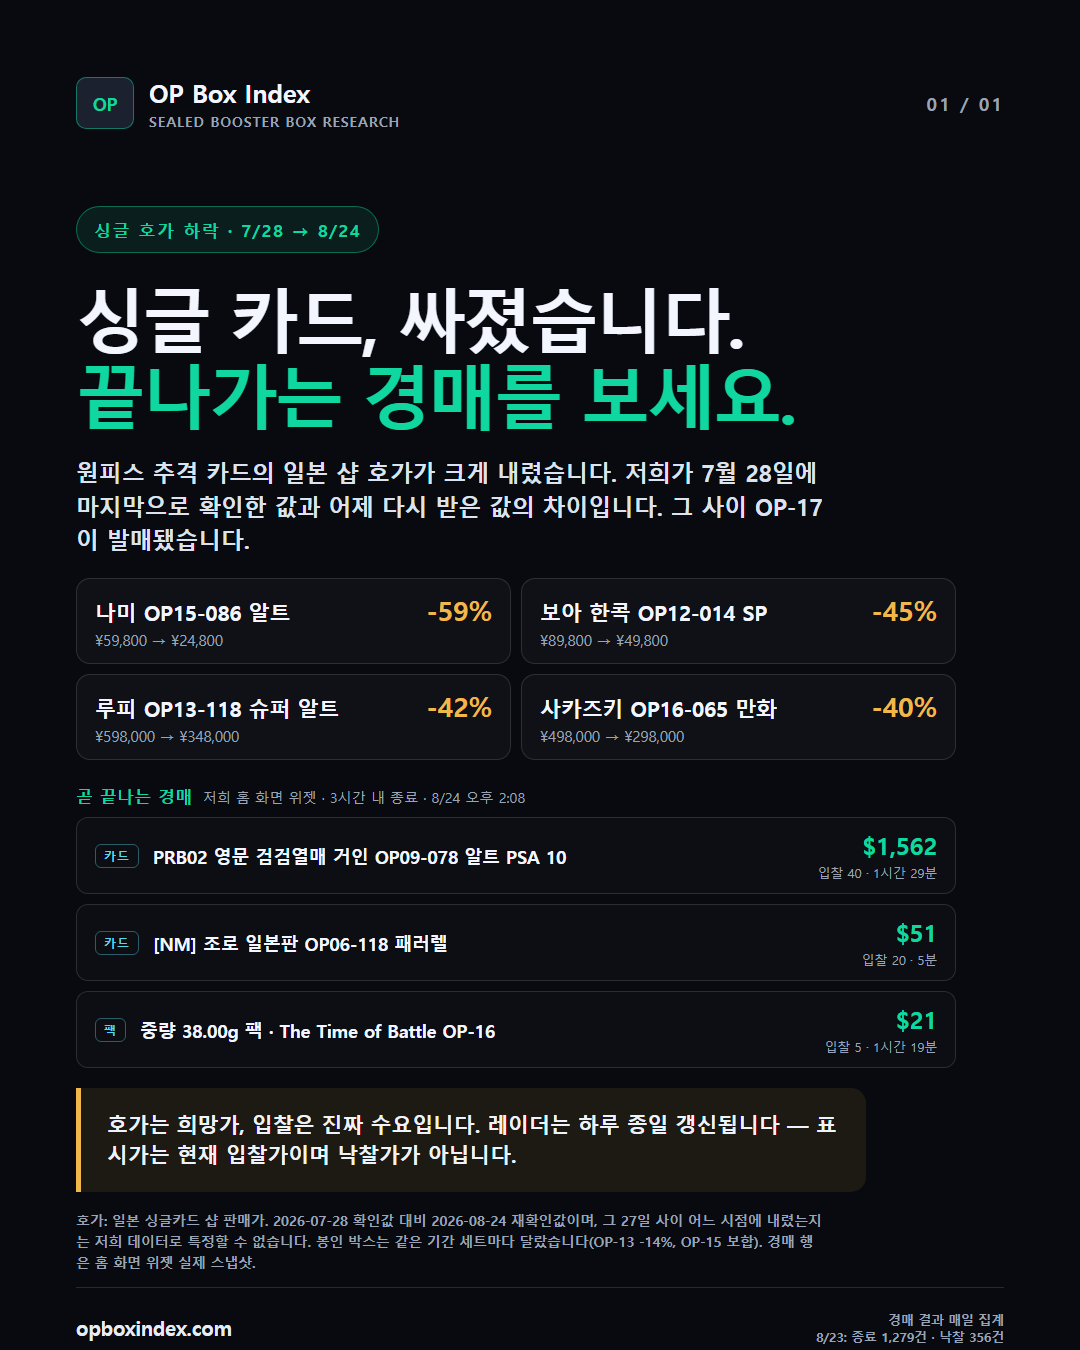
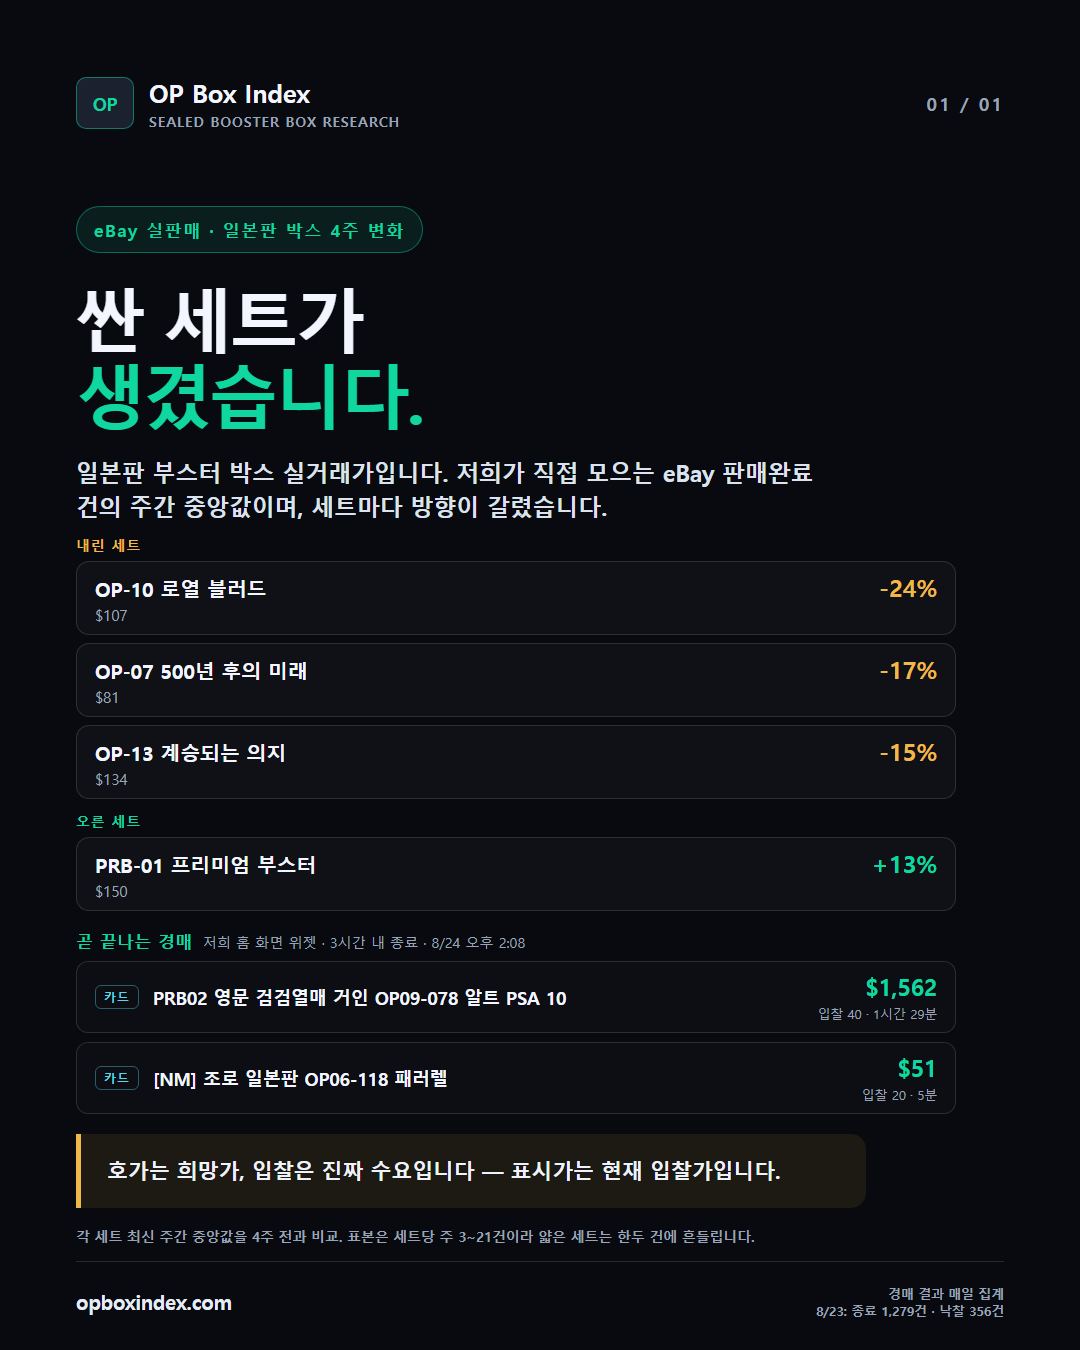
스레드 카드뉴스: 유유테이 호가 → 우리 eBay 실판매 4주 변화로 교체
요청은 '8/12~23 대비 8/24 하락'이었는데 그 비교는 불가능하다:
박스 원장에 8/24자 판매가 0건(오늘 오전 수집이라 당일 체결 미반영)이고,
경매 일별 중앙값은 잡카드 혼합이라 8/24 raw $12.5 가 기준 범위($6~30) 안이다.

그래서 사이트가 실제 게시하는 4주 변화(주간 중앙값)를 쓴다.
내림 OP-10 -24% · OP-07 -17% · OP-13 -15% / 오름 PRB-01 +13% · OP-14 +12%.
'박스가 다 떨어졌다'로 읽히지 않게 양방향을 같이 싣는다.

폐기한 초안 2개(하루 만에 -59% / 8-24 대비)의 사유를 post-copy 에 박제.

diff --git a/assets/social/threads-2026-08-24-ending-soon/slide-01-ko.html b/assets/social/threads-2026-08-24-ending-soon/slide-01-ko.html
@@ -3,24 +3,28 @@
   <head>
     <meta charset="utf-8" />
     <meta name="viewport" content="width=1080, initial-scale=1" />
-    <title>임박 경매 레이더 1</title>
+    <title>박스 4주 변화</title>
     <link rel="stylesheet" href="threads-card.css" />
     <style>
-      /* 이 슬라이드 전용 — 급락 칩 + 경매 행 목업 (한글판) */
       body { font-family: "Pretendard", "Malgun Gothic", "Segoe UI", Arial, sans-serif; letter-spacing: -0.01em; }
-      .dropGrid { display: grid; grid-template-columns: 1fr 1fr; gap: 10px; margin-top: 22px; max-width: 880px; }
-      .dropChip { border: 1px solid var(--line); border-radius: 14px; padding: 13px 18px; background: rgba(255,255,255,.03); display: flex; align-items: baseline; justify-content: space-between; gap: 10px; }
-      .dropChip b { font-size: 21px; color: var(--ink); font-weight: 700; }
-      .dropChip small { display: block; color: var(--muted); font-size: 15px; margin-top: 4px; font-weight: 500; }
-      .dropPct { font-size: 27px; font-weight: 800; color: var(--gold); white-space: nowrap; }
-      .aucPanel { margin-top: 24px; max-width: 880px; display: grid; gap: 10px; }
+      .grpLab { font-size: 14px; font-weight: 800; letter-spacing: .06em; margin: 13px 0 7px; }
+      .grpLab.dn { color: var(--gold); }
+      .grpLab.up { color: var(--accent); }
+      .dropGrid { display: grid; gap: 8px; max-width: 880px; }
+      .dropChip { border: 1px solid var(--line); border-radius: 13px; padding: 9px 18px; background: rgba(255,255,255,.03); display: flex; align-items: baseline; justify-content: space-between; gap: 10px; }
+      .dropChip b { font-size: 20px; color: var(--ink); font-weight: 700; }
+      .dropChip small { display: block; color: var(--muted); font-size: 15px; margin-top: 3px; font-weight: 500; }
+      .dropPct { font-size: 24px; font-weight: 800; white-space: nowrap; }
+      .dropChip.dn .dropPct { color: var(--gold); }
+      .dropChip.up .dropPct { color: var(--accent); }
+      .aucPanel { margin-top: 18px; max-width: 880px; display: grid; gap: 9px; }
       .aucHead { font-size: 17px; letter-spacing: .02em; color: var(--accent); font-weight: 800; }
       .aucHead small { color: var(--muted); letter-spacing: 0; font-weight: 500; margin-left: 10px; }
-      .aucRow { display: flex; align-items: center; gap: 14px; border: 1px solid var(--line); border-radius: 12px; padding: 11px 18px; background: rgba(255,255,255,.02); }
+      .aucRow { display: flex; align-items: center; gap: 14px; border: 1px solid var(--line); border-radius: 12px; padding: 9px 18px; background: rgba(255,255,255,.02); }
       .aucKind { font-size: 12px; font-weight: 800; letter-spacing: .08em; color: #55d8ea; border: 1px solid rgba(85,216,234,.4); border-radius: 6px; padding: 3px 8px; }
       .aucTitle { flex: 1; font-size: 18px; color: var(--ink); font-weight: 600; white-space: nowrap; overflow: hidden; text-overflow: ellipsis; }
       .aucBid { text-align: right; }
-      .aucBid b { display: block; font-size: 24px; font-weight: 800; color: var(--accent); }
+      .aucBid b { display: block; font-size: 23px; font-weight: 800; color: var(--accent); }
       .aucBid small { color: var(--muted); font-size: 13px; }
     </style>
   </head>
@@ -34,26 +38,29 @@
         <div class="pageNo">01 / 01</div>
       </div>
 
-      <div class="eyebrow">싱글 호가 하락 · 7/28 → 8/24</div>
-      <h1>싱글 카드, 싸졌습니다.<br /><span>끝나가는 경매를 보세요.</span></h1>
-      <p class="deck">원피스 추격 카드의 일본 샵 호가가 크게 내렸습니다. 저희가 7월 28일에 마지막으로 확인한 값과 어제 다시 받은 값의 차이입니다. 그 사이 OP-17이 발매됐습니다.</p>
+      <div class="eyebrow">eBay 실판매 · 일본판 박스 4주 변화</div>
+      <h1>싼 세트가<br /><span>생겼습니다.</span></h1>
+      <p class="deck">일본판 부스터 박스 실거래가입니다. 저희가 직접 모으는 eBay 판매완료 건의 주간 중앙값이며, 세트마다 방향이 갈렸습니다.</p>
 
-      <div class="dropGrid" aria-label="하루 호가 하락">
-        <div class="dropChip"><span><b>나미 OP15-086 알트</b><small>¥59,800 → ¥24,800</small></span><span class="dropPct">-59%</span></div>
-        <div class="dropChip"><span><b>보아 한콕 OP12-014 SP</b><small>¥89,800 → ¥49,800</small></span><span class="dropPct">-45%</span></div>
-        <div class="dropChip"><span><b>루피 OP13-118 슈퍼 알트</b><small>¥598,000 → ¥348,000</small></span><span class="dropPct">-42%</span></div>
-        <div class="dropChip"><span><b>사카즈키 OP16-065 만화</b><small>¥498,000 → ¥298,000</small></span><span class="dropPct">-40%</span></div>
+      <div class="grpLab dn">내린 세트</div>
+      <div class="dropGrid">
+        <div class="dropChip dn"><span><b>OP-10 로열 블러드</b><small>$107</small></span><span class="dropPct">-24%</span></div>
+        <div class="dropChip dn"><span><b>OP-07 500년 후의 미래</b><small>$81</small></span><span class="dropPct">-17%</span></div>
+        <div class="dropChip dn"><span><b>OP-13 계승되는 의지</b><small>$134</small></span><span class="dropPct">-15%</span></div>
+      </div>
+      <div class="grpLab up">오른 세트</div>
+      <div class="dropGrid">
+        <div class="dropChip up"><span><b>PRB-01 프리미엄 부스터</b><small>$150</small></span><span class="dropPct">+13%</span></div>
       </div>
 
-      <div class="aucPanel" aria-label="임박 경매 예시">
+      <div class="aucPanel">
         <div class="aucHead">곧 끝나는 경매<small>저희 홈 화면 위젯 · 3시간 내 종료 · 8/24 오후 2:08</small></div>
         <div class="aucRow"><span class="aucKind">카드</span><span class="aucTitle">PRB02 영문 검검열매 거인 OP09-078 알트 PSA 10</span><span class="aucBid"><b>$1,562</b><small>입찰 40 · 1시간 29분</small></span></div>
         <div class="aucRow"><span class="aucKind">카드</span><span class="aucTitle">[NM] 조로 일본판 OP06-118 패러렐</span><span class="aucBid"><b>$51</b><small>입찰 20 · 5분</small></span></div>
-        <div class="aucRow"><span class="aucKind">팩</span><span class="aucTitle">중량 38.00g 팩 · The Time of Battle OP-16</span><span class="aucBid"><b>$21</b><small>입찰 5 · 1시간 19분</small></span></div>
       </div>
 
-      <div class="insightBar">호가는 희망가, 입찰은 진짜 수요입니다. 레이더는 하루 종일 갱신됩니다 — 표시가는 현재 입찰가이며 낙찰가가 아닙니다.</div>
-      <p class="source">호가: 일본 싱글카드 샵 판매가. 2026-07-28 확인값 대비 2026-08-24 재확인값이며, 그 27일 사이 어느 시점에 내렸는지는 저희 데이터로 특정할 수 없습니다. 봉인 박스는 같은 기간 세트마다 달랐습니다(OP-13 -14%, OP-15 보합). 경매 행은 홈 화면 위젯 실제 스냅샷.</p>
+      <div class="insightBar">호가는 희망가, 입찰은 진짜 수요입니다 — 표시가는 현재 입찰가입니다.</div>
+      <p class="source">각 세트 최신 주간 중앙값을 4주 전과 비교. 표본은 세트당 주 3~21건이라 얇은 세트는 한두 건에 흔들립니다.</p>
 
       <div class="footerRow">
         <div class="url">opboxindex.com</div>

diff --git a/assets/social/threads-2026-08-24-ending-soon/slide-01-en.html b/assets/social/threads-2026-08-24-ending-soon/slide-01-en.html
@@ -3,23 +3,27 @@
   <head>
     <meta charset="utf-8" />
     <meta name="viewport" content="width=1080, initial-scale=1" />
-    <title>Auctions ending soon 1</title>
+    <title>Boxes over four weeks</title>
     <link rel="stylesheet" href="threads-card.css" />
     <style>
-      /* 이 슬라이드 전용 — 급락 칩 + 경매 행 목업 */
-      .dropGrid { display: grid; grid-template-columns: 1fr 1fr; gap: 10px; margin-top: 22px; max-width: 860px; }
-      .dropChip { border: 1px solid var(--line); border-radius: 14px; padding: 13px 18px; background: rgba(255,255,255,.03); display: flex; align-items: baseline; justify-content: space-between; gap: 10px; }
-      .dropChip b { font-size: 22px; color: var(--ink); font-weight: 700; letter-spacing: -0.01em; }
-      .dropChip small { display: block; color: var(--muted); font-size: 15px; margin-top: 4px; font-weight: 500; }
-      .dropPct { font-size: 27px; font-weight: 800; color: var(--gold); white-space: nowrap; }
-      .aucPanel { margin-top: 24px; max-width: 860px; display: grid; gap: 10px; }
-      .aucHead { font-size: 16px; letter-spacing: .14em; color: var(--accent); font-weight: 800; }
+      .grpLab { font-size: 14px; font-weight: 800; letter-spacing: .06em; margin: 13px 0 7px; }
+      .grpLab.dn { color: var(--gold); }
+      .grpLab.up { color: var(--accent); }
+      .dropGrid { display: grid; gap: 8px; max-width: 880px; }
+      .dropChip { border: 1px solid var(--line); border-radius: 13px; padding: 9px 18px; background: rgba(255,255,255,.03); display: flex; align-items: baseline; justify-content: space-between; gap: 10px; }
+      .dropChip b { font-size: 20px; color: var(--ink); font-weight: 700; }
+      .dropChip small { display: block; color: var(--muted); font-size: 15px; margin-top: 3px; font-weight: 500; }
+      .dropPct { font-size: 24px; font-weight: 800; white-space: nowrap; }
+      .dropChip.dn .dropPct { color: var(--gold); }
+      .dropChip.up .dropPct { color: var(--accent); }
+      .aucPanel { margin-top: 18px; max-width: 880px; display: grid; gap: 9px; }
+      .aucHead { font-size: 17px; letter-spacing: .02em; color: var(--accent); font-weight: 800; }
       .aucHead small { color: var(--muted); letter-spacing: 0; font-weight: 500; margin-left: 10px; }
-      .aucRow { display: flex; align-items: center; gap: 14px; border: 1px solid var(--line); border-radius: 12px; padding: 11px 18px; background: rgba(255,255,255,.02); }
-      .aucKind { font-size: 12px; font-weight: 800; letter-spacing: .1em; color: #55d8ea; border: 1px solid rgba(85,216,234,.4); border-radius: 6px; padding: 3px 8px; }
+      .aucRow { display: flex; align-items: center; gap: 14px; border: 1px solid var(--line); border-radius: 12px; padding: 9px 18px; background: rgba(255,255,255,.02); }
+      .aucKind { font-size: 12px; font-weight: 800; letter-spacing: .08em; color: #55d8ea; border: 1px solid rgba(85,216,234,.4); border-radius: 6px; padding: 3px 8px; }
       .aucTitle { flex: 1; font-size: 18px; color: var(--ink); font-weight: 600; white-space: nowrap; overflow: hidden; text-overflow: ellipsis; }
       .aucBid { text-align: right; }
-      .aucBid b { display: block; font-size: 24px; font-weight: 800; color: var(--accent); }
+      .aucBid b { display: block; font-size: 23px; font-weight: 800; color: var(--accent); }
       .aucBid small { color: var(--muted); font-size: 13px; }
     </style>
   </head>
@@ -33,26 +37,29 @@
         <div class="pageNo">01 / 01</div>
       </div>
 
-      <div class="eyebrow">SINGLES ASKING PRICES · JUL 28 → AUG 24</div>
-      <h1>Singles just got cheap.<br /><span>Watch the auctions close.</span></h1>
-      <p class="deck">Japanese shop asking prices on One Piece chase cards fell hard. This compares our July 28 reading with yesterday&rsquo;s. OP-17 launched in between.</p>
+      <div class="eyebrow">OUR EBAY SOLD DATA · JAPANESE BOXES · 4 WEEKS</div>
+      <h1>Some sets<br /><span>got cheap.</span></h1>
+      <p class="deck">Completed eBay sales of Japanese booster boxes — weekly medians from our own ledger. Over the last four weeks the sets split.</p>
 
-      <div class="dropGrid" aria-label="One-day asking price drops">
-        <div class="dropChip"><span><b>Nami OP15-086 Alt</b><small>¥59,800 → ¥24,800</small></span><span class="dropPct">-59%</span></div>
-        <div class="dropChip"><span><b>Boa Hancock OP12-014 SP</b><small>¥89,800 → ¥49,800</small></span><span class="dropPct">-45%</span></div>
-        <div class="dropChip"><span><b>Luffy OP13-118 Super Alt</b><small>¥598,000 → ¥348,000</small></span><span class="dropPct">-42%</span></div>
-        <div class="dropChip"><span><b>Sakazuki OP16-065 Manga</b><small>¥498,000 → ¥298,000</small></span><span class="dropPct">-40%</span></div>
+      <div class="grpLab dn">DOWN</div>
+      <div class="dropGrid">
+        <div class="dropChip dn"><span><b>OP-10 Royal Blood</b><small>$107</small></span><span class="dropPct">-24%</span></div>
+        <div class="dropChip dn"><span><b>OP-07 500 Years in the Future</b><small>$81</small></span><span class="dropPct">-17%</span></div>
+        <div class="dropChip dn"><span><b>OP-13 Carrying on His Will</b><small>$134</small></span><span class="dropPct">-15%</span></div>
+      </div>
+      <div class="grpLab up">UP</div>
+      <div class="dropGrid">
+        <div class="dropChip up"><span><b>PRB-01 Premium Booster</b><small>$150</small></span><span class="dropPct">+13%</span></div>
       </div>
 
-      <div class="aucPanel" aria-label="Auctions ending soon example">
+      <div class="aucPanel">
         <div class="aucHead">AUCTIONS ENDING SOON<small>our homepage widget · ending within 3 hours · Aug 24, 2:08 PM</small></div>
         <div class="aucRow"><span class="aucKind">CARD</span><span class="aucTitle">PRB02 EN Gum-Gum Giant OP09-078 Alt Art PSA 10</span><span class="aucBid"><b>$1,562</b><small>40 bids · 1h 29m</small></span></div>
         <div class="aucRow"><span class="aucKind">CARD</span><span class="aucTitle">[NM] Roronoa Zoro Japanese OP06-118 Parallel</span><span class="aucBid"><b>$51</b><small>20 bids · 5m</small></span></div>
-        <div class="aucRow"><span class="aucKind">PACK</span><span class="aucTitle">Heavy 38.00g Pack · The Time of Battle OP-16</span><span class="aucBid"><b>$21</b><small>5 bids · 1h 19m</small></span></div>
       </div>
 
-      <div class="insightBar">Bids are real demand. Asking prices are hope. The radar refreshes all day — current bids, not final prices.</div>
-      <p class="source">Asking prices: Japanese single-card shop listings. Our Jul 28, 2026 reading vs Aug 24, 2026 &mdash; we cannot pin where in those 27 days the drop happened. Sealed boxes moved differently over the same window (OP-13 -14%, OP-15 flat). Auction rows: live snapshot from our homepage widget.</p>
+      <div class="insightBar">Asking prices are hope. Bids are real demand.</div>
+      <p class="source">Latest weekly median vs four weeks earlier. Samples run 3&ndash;21 sales per set per week. Auction rows are current bids, not final prices.</p>
 
       <div class="footerRow">
         <div class="url">opboxindex.com</div>

diff --git a/assets/social/threads-2026-08-24-ending-soon/post-copy.md b/assets/social/threads-2026-08-24-ending-soon/post-copy.md
@@ -1,4 +1,4 @@
-# Threads — 싱글 호가 하락 + 임박 경매 레이더 (2026-08-24)
+# Threads — 박스 4주 변화 + 임박 경매 레이더 (2026-08-24)
 
 이미지 1080×1350 · 한글 `threads-ending-soon-01-ko.png` / 영문 `threads-ending-soon-01-en.png`
 
@@ -6,18 +6,20 @@
 
 ## 본문 · 한글
 
-원피스 싱글 카드, 싸졌습니다.
+일본판 부스터 박스, 세트마다 갈렸습니다.
 
-추격 카드의 일본 샵 호가입니다. 저희가 7월 28일에 마지막으로 확인한 값과 어제(8/24) 다시 받은 값:
+저희가 직접 모으는 eBay 판매완료 건의 주간 중앙값입니다. 4주 전과 비교:
 
-· 나미 OP15-086 알트 ¥59,800 → ¥24,800 (-59%)
-· 보아 한콕 OP12-014 SP -45%
-· 루피 OP13-118 슈퍼 알트 -42%
-· 사카즈키 OP16-065 만화 -40%
+내린 세트
+· OP-10 로열 블러드 $107 (-24%)
+· OP-07 500년 후의 미래 $81 (-17%)
+· OP-13 계승되는 의지 $134 (-15%)
 
-그 사이 OP-17이 발매됐습니다. 다만 27일 창이라 어느 시점에 내렸는지는 저희 데이터로 특정할 수 없습니다.
+오른 세트
+· PRB-01 프리미엄 부스터 $150 (+13%)
+· OP-14 푸른 바다의 일곱 $101 (+12%)
 
-봉인 박스는 같은 기간 세트마다 갈렸습니다 — OP-13 -14%, OP-15는 보합.
+"박스가 다 떨어졌다"는 아닙니다. 내린 쪽이 5개, 오른 쪽이 3개였습니다.
 
 호가는 희망가, 입찰은 진짜 수요입니다. 저희 홈 화면은 3시간 안에 끝나는 eBay 경매를 실제 입찰 수 순으로 보여줍니다. 어제는 원피스 경매 1,279건이 끝났고 356건이 낙찰됐습니다.
 
@@ -27,18 +29,20 @@
 
 ## 본문 · 영문
 
-One Piece singles just got cheap.
+Japanese booster boxes split over the last four weeks.
 
-Japanese shop asking prices on chase cards. Our July 28 reading vs yesterday's (Aug 24):
+Weekly medians of completed eBay sales, from our own ledger. Versus four weeks earlier:
 
-· Nami OP15-086 Alt ¥59,800 → ¥24,800 (-59%)
-· Boa Hancock OP12-014 SP -45%
-· Luffy OP13-118 Super Alt -42%
-· Sakazuki OP16-065 Manga -40%
+Down
+· OP-10 Royal Blood $107 (-24%)
+· OP-07 500 Years in the Future $81 (-17%)
+· OP-13 Carrying on His Will $134 (-15%)
 
-OP-17 launched in between. It's a 27-day window, so we can't pin exactly when the drop happened.
+Up
+· PRB-01 Premium Booster $150 (+13%)
+· OP-14 the Azure Sea's Seven $101 (+12%)
 
-Sealed boxes split over the same stretch — OP-13 -14%, OP-15 flat.
+This is not "boxes crashed." Five sets fell, three rose.
 
 Asking prices are hope. Bids are real demand. Our homepage lists the eBay auctions ending within 3 hours, ranked by actual bids. Yesterday 1,279 One Piece auctions ended; 356 sold.
 
@@ -46,18 +50,38 @@ Live radar + daily results → opboxindex.com
 
 ---
 
-## 쓰면 안 되는 문장 (과장 금지)
+## 폐기된 초안 (2026-08-24, 두 번 틀렸다)
 
-- **"하루 만에"** — 8/23 커밋에 남아 있던 값은 7/28 수집분이 그대로 유지된 것이다. 실제 관측 창은 **27일**(7/28 → 8/24). 2026-08-24 초안에서 이 오류를 냈다.
-- "OP-17 때문에 떨어졌다" — 발매(8/22)는 재확인 이틀 전이다. 같은 창 안에 있었다는 사실만 말하고 인과는 단정하지 않는다.
-- "박스도 같이 폭락" — 아니다. 같은 창에서 OP-15 보합, PRB-01 +4%였다.
-- "지금이 바닥" / "역대급 폭락" — 바닥 판정은 예측이다. 우리는 하락 폭만 안다.
-- "실시간 최종가" — 위젯은 **현재 입찰가**다. 이미지·본문 모두 "낙찰가가 아님"을 유지한다.
+**1차 — "하루 만에 -59%"**
+유유테이 싱글 호가로 썼는데, 8/23 커밋의 값은 7/28 수집분이 그대로 남아 있던 것이었다.
+실제 관측 창은 27일(7/28 → 8/24). 우리 수집 간격을 시장이 움직인 기간으로 말한 셈이다.
+(유유테이는 워크플로우 미등록 수동 도구 — 그 27일간 수집이 없었다.)
+
+**2차 — "8/12~23 대비 8/24 하락"**
+불가능. 박스 원장에 **8/24자 판매가 0건**이다(오늘 오전 수집이라 당일 체결 미반영).
+경매 일별 중앙값은 잡카드 혼합이라 8/24 raw $12.5가 기준 범위($6~30) 안에 있어 신호가 안 된다.
+
+**그래서 최종본은** 사이트가 실제로 게시하는 4주 변화(주간 중앙값 기반)를 쓴다.
+
+## 쓰면 안 되는 문장
+
+- "박스가 다 떨어졌다" — 같은 창에서 PRB-01 +13%, OP-14 +12%였다. 갈렸다고 써야 한다.
+- "하루 만에" — 수집 간격과 시장 변동 기간을 혼동한 표현. 위 1차 오류.
+- "OP-17 때문에" — 발매(8/22)와 하락 구간이 겹치지 않는다. OP-13은 8/14→8/21에 빠졌다.
+- "지금이 바닥" / "역대급 폭락" — 바닥 판정은 예측이다.
+- "실시간 최종가" — 위젯은 **현재 입찰가**다.
 
 ## 수치 출처
 
-- 호가 하락: 遊々亭 싱글 호가. `data/onepiece-packs.json` 의 nmJpy, 2026-07-28 수집분 대비 2026-08-24 수집분.
-  (그 사이 27일간 유유테이 수집이 없었다 — 워크플로우 미등록, 수동 실행 도구)
-- 박스 비교: `box-sold-series.json` jp 주간 중앙값, 7/28~31 기준점 대비 최신점.
-- 경매 행 3건: 홈 AUCTIONS ENDING SOON 위젯 08-24 14:08 실제 표시분.
+- 4주 변화: `onepiece-packs.json` marketIndex.board. 각 세트 최신 주간 중앙값 vs 4주 전.
+  원본은 `box-sold-series.json`(원장 기반 롤링 중앙값, 판매일 기준).
+- 경매 행 2건: 홈 AUCTIONS ENDING SOON 위젯 08-24 14:08 실제 표시분.
 - 1,279 종료 / 356 낙찰: `auction-series.json` 2026-08-23(완결일).
+
+## 별건 — 원장 언어 오염 (조치 필요)
+
+jp 원장 917건 중 **83건(9%)이 en 중앙값 대역**에 있다. OP-13은 23/91(25%)로 최악
+(예: "One Piece OP-13 Japanese Booster Box ... UK Seller" $475 — 실제 일본판은 $120~135대).
+eBay Language 패싯이 판매자 신고값이라 영문판이 jp 버킷에 섞인다.
+현재는 42일 롤링 중앙값이 정상 무리에 안착해 게시값은 맞지만, 오염이 커지면 중앙값이 뒤집힌다.
+→ ingest 판정에 "그 세트 en 중앙값의 0.8배 이상이면 보류" 같은 방어를 넣을 것.
